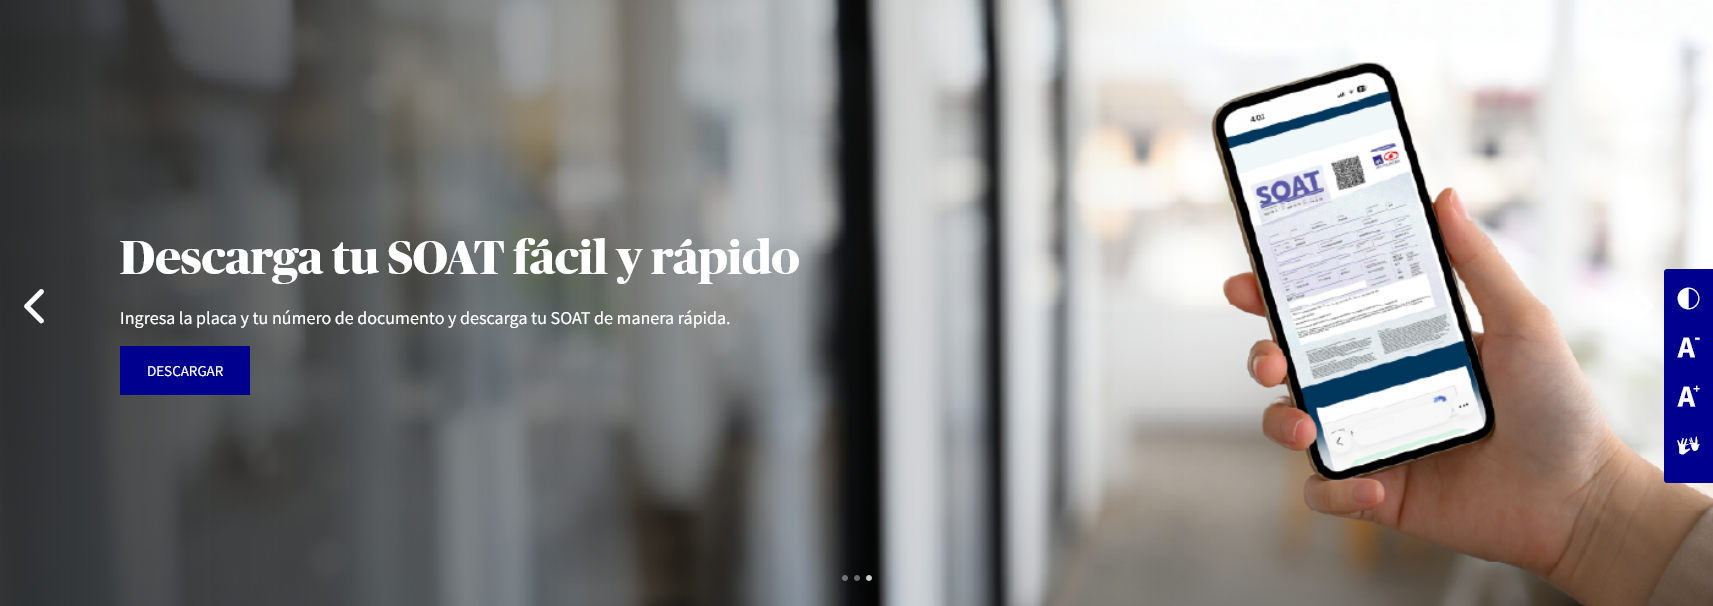
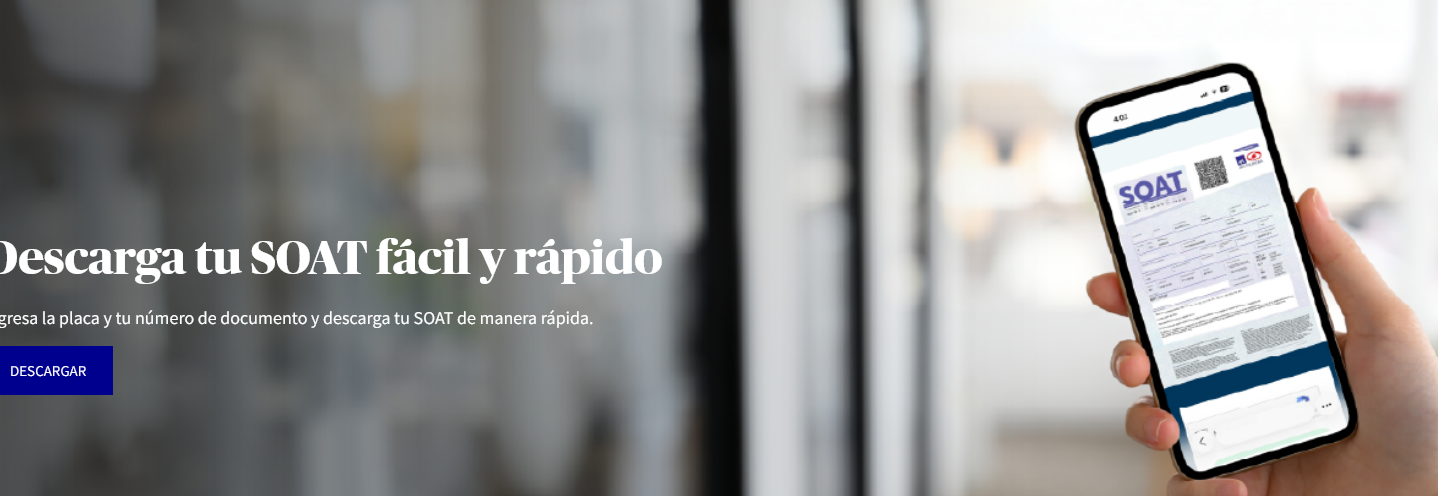
feat: implement interactive frontend based on mockups
- Convert image mockups for footer and contact into responsive HTML/CSS using Tailwind.
- Implement responsive hero section with Swiper using distinct mobile/desktop assets.
- Integrate 'DESCARGAR' CTAs inside the hero.
- Replace checkmark with a blue 'X' icon from lucide-react in widget 2.
- Remove hardcoded images to favor structured UI components.

diff --git a/src/components/HeroCarousel.jsx b/src/components/HeroCarousel.jsx
@@ -1,31 +1,73 @@
 import React from 'react';
 import { Swiper, SwiperSlide } from 'swiper/react';
-import { Navigation, Pagination, Autoplay } from 'swiper/modules';
+import { Pagination, Autoplay } from 'swiper/modules';
 import 'swiper/css';
-import 'swiper/css/navigation';
 import 'swiper/css/pagination';
 
 const HeroCarousel = () => {
   return (
-    <div className="w-full bg-white">
+    <div className="w-full bg-[#f2f4f7] relative">
       <Swiper
-        modules={[Navigation, Pagination, Autoplay]}
+        modules={[Pagination, Autoplay]}
         spaceBetween={0}
         slidesPerView={1}
-        navigation
         pagination={{ clickable: true }}
         autoplay={{ delay: 5000, disableOnInteraction: false }}
-        className="w-full h-[300px] md:h-[500px]"
+        className="w-full h-auto md:h-[450px]"
       >
         <SwiperSlide>
-          <img src="./images/hero_slide_1.png" alt="Hero 1" className="w-full h-full object-cover invert-safe" />
+          <div className="flex flex-col h-full w-full">
+            <a href="https://clientes.axacolpatria.co/descargar-soat" target="_blank" rel="noopener noreferrer" className="block w-full md:h-full relative overflow-hidden flex justify-center items-center">
+              <picture>
+                <source media="(max-width: 767px)" srcSet="./images/banner-mobile-descarga-soat.webp" />
+                <img src="./images/hero_slide_1.png" alt="Descarga tu SOAT fácil y rápido" className="w-full max-w-[1200px] h-auto object-contain invert-safe" />
+              </picture>
+            </a>
+            <div className="flex flex-col items-center justify-center p-6 text-center md:hidden bg-white">
+              <h2 className="text-2xl font-bold text-[#000033] mb-2">Descarga tu SOAT fácil y rápido</h2>
+              <p className="text-sm text-gray-600 mb-4">Ingresa la placa y tu número de documento y descarga tu SOAT de manera rápida.</p>
+              <a href="https://clientes.axacolpatria.co/descargar-soat" target="_blank" rel="noopener noreferrer" className="bg-[#000033] text-white px-8 py-3 rounded-full font-semibold uppercase text-sm w-full max-w-[250px] transition-colors hover:bg-blue-900">
+                DESCARGAR
+              </a>
+            </div>
+            {/* Desktop Button Overlay */}
+            <div className="hidden md:flex absolute bottom-8 left-0 right-0 justify-center pointer-events-none z-10">
+               <a href="https://clientes.axacolpatria.co/descargar-soat" target="_blank" rel="noopener noreferrer" className="pointer-events-auto bg-[#000033] text-white px-8 py-3 rounded-full font-semibold uppercase text-sm transition-colors hover:bg-blue-900 shadow-lg">
+                 DESCARGAR
+               </a>
+            </div>
+          </div>
         </SwiperSlide>
+
         <SwiperSlide>
-          <img src="./images/hero_slide_2.png" alt="Hero 2" className="w-full h-full object-cover invert-safe" />
+          <div className="flex flex-col h-full w-full">
+            <div className="block w-full md:h-full relative overflow-hidden flex justify-center items-center">
+              <picture>
+                <source media="(max-width: 767px)" srcSet="./images/banner-responsive-soat.jpg" />
+                <img src="./images/hero_slide_2.png" alt="SOAT" className="w-full max-w-[1200px] h-auto object-contain invert-safe" />
+              </picture>
+            </div>
+            <div className="flex flex-col items-center justify-center p-6 text-center md:hidden bg-white">
+              <h2 className="text-2xl font-bold text-[#000033]">SOAT</h2>
+            </div>
+          </div>
         </SwiperSlide>
+
         <SwiperSlide>
-          <img src="./images/hero_slide_3.png" alt="Hero 3" className="w-full h-full object-cover invert-safe" />
+          <div className="flex flex-col h-full w-full">
+            <div className="block w-full md:h-full relative overflow-hidden flex justify-center items-center">
+              <picture>
+                <source media="(max-width: 767px)" srcSet="./images/banner-mobile-siniestros-soat.webp" />
+                <img src="./images/hero_slide_3.png" alt="Radica tu solicitud de indemnización SOAT" className="w-full max-w-[1200px] h-auto object-contain invert-safe" />
+              </picture>
+            </div>
+            <div className="flex flex-col items-center justify-center p-6 text-center md:hidden bg-white">
+              <h2 className="text-2xl font-bold text-[#000033] mb-2">Radica tu solicitud de indemnización SOAT</h2>
+              <p className="text-sm text-gray-600 mb-4">Asegúrate de adjuntar todos los documentos requeridos para evitar devoluciones en el trámite.</p>
+            </div>
+          </div>
         </SwiperSlide>
+
       </Swiper>
     </div>
   );

diff --git a/src/components/Widget2.jsx b/src/components/Widget2.jsx
@@ -1,4 +1,5 @@
 import React, { useState } from 'react';
+import { X } from 'lucide-react';
 
 const Widget2 = () => {
   const [activeTab, setActiveTab] = useState('coberturas');
@@ -27,8 +28,8 @@ const Widget2 = () => {
               onClick={() => setActiveTab('no_cubre')}
               className={`p-4 rounded-lg flex items-center shadow-sm transition-colors border-2 ${activeTab === 'no_cubre' ? 'bg-white border-[#000066] text-[#000066]' : 'bg-white border-transparent text-[#000066] hover:border-gray-200'}`}
             >
-              <div className="w-10 h-10 mr-4 flex items-center justify-center bg-green-500 rounded-full text-white">
-                 <svg viewBox="0 0 24 24" width="20" height="20" stroke="currentColor" strokeWidth="3" fill="none" strokeLinecap="round" strokeLinejoin="round"><polyline points="20 6 9 17 4 12"></polyline></svg>
+              <div className="w-10 h-10 mr-4 flex items-center justify-center bg-blue-50 rounded-full text-[#000066]">
+                 <X size={20} strokeWidth={3} />
               </div>
               <span className="font-bold text-lg">¿Qué NO cubre?</span>
             </button>

diff --git a/src/components/Widget1.jsx b/src/components/Widget1.jsx
@@ -5,7 +5,7 @@ const Widget1 = () => {
     <section className="container mx-auto px-4 py-16 bg-white">
       <div className="flex flex-col lg:flex-row items-center">
         <div className="lg:w-1/2 mb-8 lg:mb-0">
-          <img src="./images/widget_1.png" alt="Información SOAT" className="w-full h-auto rounded-lg invert-safe" />
+          <img src="./images/imagen-soat.jpg" alt="Información SOAT" className="w-full h-auto rounded-lg invert-safe" />
         </div>
         <div className="lg:w-1/2 lg:pl-16">
           <h2 className="text-4xl font-bold text-[#000066] mb-6 font-serif">

diff --git a/verify.py b/verify.py
@@ -1,0 +1,39 @@
+import asyncio
+from playwright.async_api import async_playwright
+
+async def main():
+    async with async_playwright() as p:
+        browser = await p.chromium.launch()
+        context = await browser.new_context(
+            record_video_dir="/home/jules/verification/videos",
+            viewport={'width': 1280, 'height': 800}
+        )
+        page = await context.new_page()
+        await page.goto("http://localhost:4174/lol/")
+
+        # Capture Desktop Hero
+        await page.screenshot(path="/home/jules/verification/screenshots/hero_desktop.png", full_page=False)
+
+        # Scroll to Widget 1
+        await page.evaluate("window.scrollBy(0, 500)")
+        await page.wait_for_timeout(1000)
+        await page.screenshot(path="/home/jules/verification/screenshots/widget1.png")
+
+        # Scroll to Widget 2
+        await page.evaluate("window.scrollBy(0, 500)")
+        await page.wait_for_timeout(1000)
+        await page.screenshot(path="/home/jules/verification/screenshots/widget2.png")
+
+        # Mobile view
+        mobile_context = await browser.new_context(
+            viewport={'width': 375, 'height': 667}
+        )
+        mobile_page = await mobile_context.new_page()
+        await mobile_page.goto("http://localhost:4174/lol/")
+        await mobile_page.screenshot(path="/home/jules/verification/screenshots/hero_mobile.png", full_page=False)
+
+        await context.close()
+        await mobile_context.close()
+        await browser.close()
+
+asyncio.run(main())
